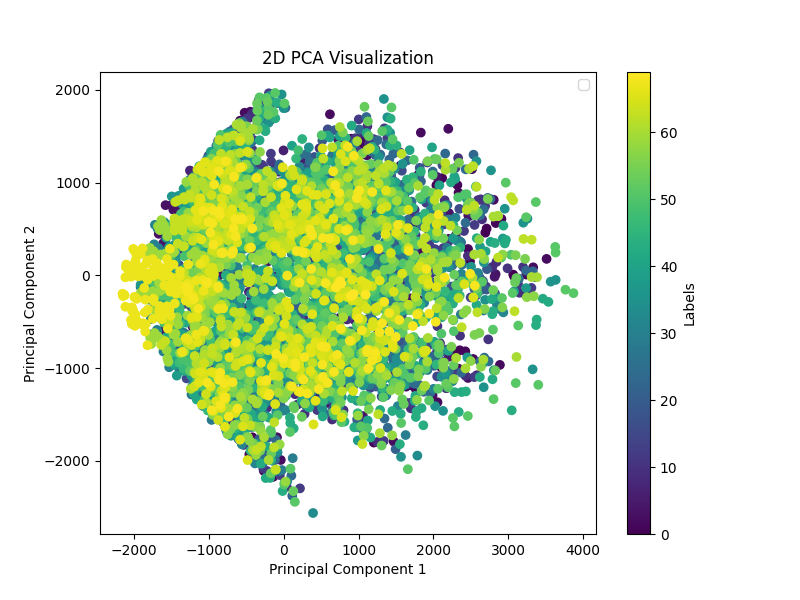
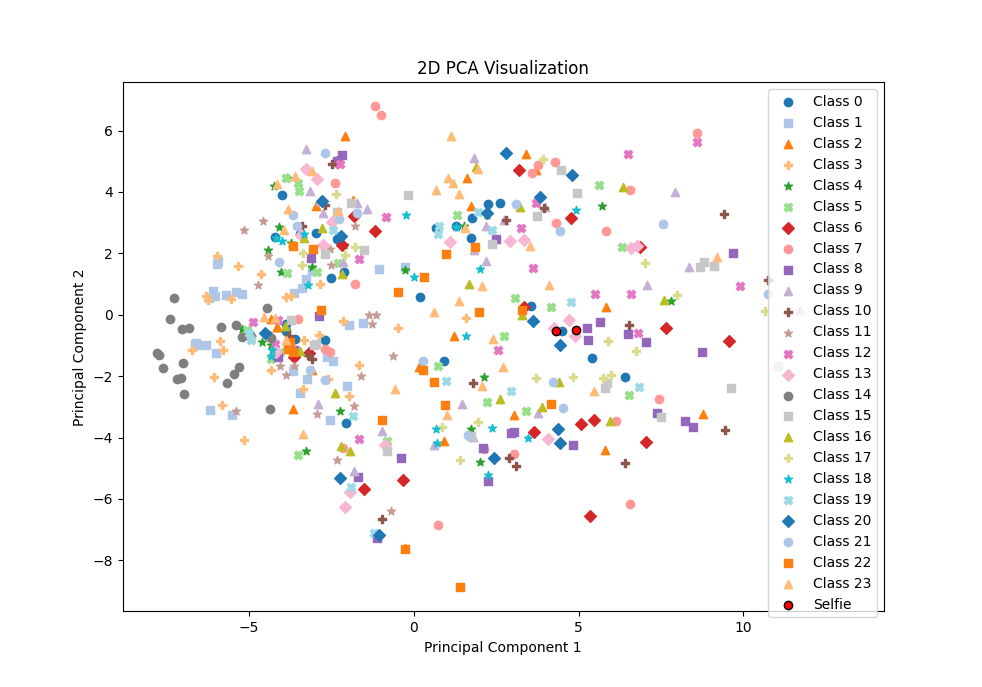
Enhance PCA.py

diff --git a/CA2/LDA.py b/CA2/LDA.py
@@ -1,78 +1,120 @@
 import numpy as np
 import matplotlib.pyplot as plt
-from dataset import load_data  # Ensure dataset.py is in the same directory
 from sklearn.discriminant_analysis import LinearDiscriminantAnalysis as LDA
-
-# Load dataset
-cmu_data_folder = 'CA2/PIE'  # Replace with your dataset path
-selfie_folder = 'CA2/PIE/Selfie' 
-train_images, train_labels, test_images, test_labels = load_data(cmu_data_folder, selfie_folder)
-
-# Randomly sample 500 images (CMU PIE + Selfies)
-np.random.seed(42)
-sample_indices = np.random.choice(len(train_images), 500, replace=False)
-sample_images = train_images[sample_indices]
-sample_labels = train_labels[sample_indices]
-
-# Apply LDA
-def apply_lda(data, labels, n_components):
-    lda = LDA(n_components=n_components)
-    transformed_data = lda.fit_transform(data, labels)
-    return transformed_data, lda
-
-# 2D Visualization
-def visualize_lda_2d(data, labels, highlighted_idx=None):
-    plt.figure(figsize=(8, 6))
-    scatter = plt.scatter(data[:, 0], data[:, 1], c=labels, cmap='viridis', alpha=0.7)
-    if highlighted_idx is not None:
-        plt.scatter(data[highlighted_idx, 0], data[highlighted_idx, 1], color='red', label='Selfie')
-    plt.xlabel('LD 1')
-    plt.ylabel('LD 2')
-    plt.legend()
-    plt.title("2D LDA Visualization")
-    plt.colorbar(scatter, label="Labels")
-    plt.show()
-
-# 3D Visualization
-def visualize_lda_3d(data, labels, highlighted_idx=None):
-    fig = plt.figure(figsize=(8, 6))
-    ax = fig.add_subplot(111, projection='3d')
-    scatter = ax.scatter(data[:, 0], data[:, 1], data[:, 2], c=labels, cmap='viridis', alpha=0.7)
-    if highlighted_idx is not None:
-        ax.scatter(data[highlighted_idx, 0], data[highlighted_idx, 1], data[highlighted_idx, 2], color='red', label='Selfie')
-    ax.set_xlabel('LD 1')
-    ax.set_ylabel('LD 2')
-    ax.set_zlabel('LD 3')
-    plt.title("3D LDA Visualization")
-    plt.colorbar(scatter, label="Labels")
-    plt.legend()
-    plt.show()
-
-# Highlighted indices for your photos in the sample
-highlighted_indices = [idx for idx, label in enumerate(sample_labels) if label == max(sample_labels)]
-
-# Apply LDA for visualization
-lda_data_2d, _ = apply_lda(sample_images, sample_labels, n_components=2)
-visualize_lda_2d(lda_data_2d, sample_labels, highlighted_indices)
-
-lda_data_3d, _ = apply_lda(sample_images, sample_labels, n_components=3)
-visualize_lda_3d(lda_data_3d, sample_labels, highlighted_indices)
-
-import numpy as np
-from dataset import load_data  # Ensure dataset.py is in the same directory
-from sklearn.discriminant_analysis import LinearDiscriminantAnalysis as LDA
+from sklearn.preprocessing import StandardScaler
+from sklearn.model_selection import train_test_split
 from sklearn.neighbors import KNeighborsClassifier
 from sklearn.metrics import accuracy_score
+import os
+import cv2
 
-train_images, train_labels, test_images, test_labels = load_data(cmu_data_folder, selfie_folder)
+def load_images_from_folder(folder_path, img_size=(32, 32), max_folders=25):
+    images, labels = [], []
+    label = 0
+    subject_folders = sorted(os.listdir(folder_path))[:max_folders]
+    for subject_folder in subject_folders:
+        subject_path = os.path.join(folder_path, subject_folder)
+        if os.path.isdir(subject_path):
+            for img_file in os.listdir(subject_path):
+                img_path = os.path.join(subject_path, img_file)
+                img = cv2.imread(img_path, cv2.IMREAD_GRAYSCALE)
+                if img is not None:
+                    img = cv2.resize(img, img_size)
+                    images.append(img.flatten())
+                    labels.append(label)
+            label += 1
+    return np.array(images), np.array(labels)
 
-# Apply LDA
+def prepare_selfie_images(selfie_folder, img_size=(32, 32)):
+    selfie_images = []
+    for img_file in os.listdir(selfie_folder):
+        img_path = os.path.join(selfie_folder, img_file)
+        img = cv2.imread(img_path, cv2.IMREAD_GRAYSCALE)
+        if img is not None:
+            img = cv2.resize(img, img_size)
+            selfie_images.append(img.flatten())
+    return np.array(selfie_images)
+
+def load_data(cmu_data_folder, selfie_folder, max_folders=25, random_seed=42):
+    images, labels = load_images_from_folder(cmu_data_folder, max_folders=max_folders)
+    selfie_images = prepare_selfie_images(selfie_folder)
+
+    train_images, train_labels, test_images, test_labels = [], [], [], []
+    unique_labels = np.unique(labels)
+
+    for label in unique_labels:
+        label_indices = np.where(labels == label)[0]
+        label_images = images[label_indices]
+        label_train, label_test = train_test_split(label_images, test_size=0.3, random_state=random_seed)
+        train_images.extend(label_train)
+        test_images.extend(label_test)
+        train_labels.extend([label] * len(label_train))
+        test_labels.extend([label] * len(label_test))
+
+    train_images, train_labels = np.array(train_images), np.array(train_labels)
+    test_images, test_labels = np.array(test_images), np.array(test_labels)
+
+    selfie_train, selfie_test = train_test_split(selfie_images, test_size=0.3, random_state=random_seed)
+    selfie_train_labels = np.full(len(selfie_train), label + 1)
+    selfie_test_labels = np.full(len(selfie_test), label + 1)
+
+    train_images = np.vstack((train_images, selfie_train))
+    train_labels = np.concatenate((train_labels, selfie_train_labels))
+    test_images = np.vstack((test_images, selfie_test))
+    test_labels = np.concatenate((test_labels, selfie_test_labels))
+
+    train_images = train_images / 255.0
+    test_images = test_images / 255.0
+
+    return train_images, train_labels, test_images, test_labels
+
 def apply_lda(data, labels, n_components):
     lda = LDA(n_components=n_components)
     transformed_data = lda.fit_transform(data, labels)
     return transformed_data, lda
 
-# Nearest Neighbor Classifier
+def visualize_lda_2d(data, labels, highlighted_idx=None):
+    plt.figure(figsize=(8, 6))
+    unique_labels = np.unique(labels)
+    markers = ['o', 's', '^', 'P', '*', 'X', 'D']
+    colors = plt.cm.tab20.colors
+
+    for i, unique_label in enumerate(unique_labels):
+        idx = labels == unique_label
+        if unique_label == max(labels):
+            plt.scatter(data[idx, 0], data[idx, 1], color='red', marker='o', label='Selfie', edgecolor='k')
+        else:
+            marker = markers[i % len(markers)]
+            plt.scatter(data[idx, 0], data[idx, 1], color=colors[i % len(colors)], marker=marker, label=f"Class {unique_label}")
+
+    plt.xlabel("LD 1")
+    plt.ylabel("LD 2")
+    plt.legend()
+    plt.title("2D LDA Visualization")
+    plt.show()
+
+def visualize_lda_3d(data, labels, highlighted_idx=None):
+    fig = plt.figure(figsize=(8, 6))
+    ax = fig.add_subplot(111, projection="3d")
+    unique_labels = np.unique(labels)
+    markers = ['o', 's', '^', 'P', '*', 'X', 'D']
+    colors = plt.cm.tab20.colors
+
+    for i, unique_label in enumerate(unique_labels):
+        idx = labels == unique_label
+        if unique_label == max(labels):
+            ax.scatter(data[idx, 0], data[idx, 1], data[idx, 2], color='red', marker='o', label='Selfie', edgecolor='k')
+        else:
+            marker = markers[i % len(markers)]
+            ax.scatter(data[idx, 0], data[idx, 1], data[idx, 2], color=colors[i % len(colors)], marker=marker, label=f"Class {unique_label}")
+
+    ax.set_xlabel("LD 1")
+    ax.set_ylabel("LD 2")
+    ax.set_zlabel("LD 3")
+    plt.legend()
+    plt.title("3D LDA Visualization")
+    plt.show()
+
 def nearest_neighbor_classifier(train_data, train_labels, test_data, test_labels):
     knn = KNeighborsClassifier(n_neighbors=1)
     knn.fit(train_data, train_labels)
@@ -80,37 +122,53 @@ def nearest_neighbor_classifier(train_data, train_labels, test_data, test_labels
     accuracy = accuracy_score(test_labels, predictions)
     return accuracy, predictions
 
-# Function to run LDA classification
 def lda_classification(train_images, train_labels, test_images, test_labels, dimensions):
     results = {}
     for n_components in dimensions:
-        # Apply LDA to train and test sets
         lda_data_train, lda = apply_lda(train_images, train_labels, n_components)
         lda_data_test = lda.transform(test_images)
-        
-        # Perform classification
+
         accuracy, predictions = nearest_neighbor_classifier(lda_data_train, train_labels, lda_data_test, test_labels)
-        
-        # Separate accuracy for CMU PIE and selfie test images
+
         cmu_pie_indices = [i for i, label in enumerate(test_labels) if label != max(train_labels)]
         selfie_indices = [i for i, label in enumerate(test_labels) if label == max(train_labels)]
-        
+
         cmu_pie_accuracy = accuracy_score(test_labels[cmu_pie_indices], predictions[cmu_pie_indices])
         selfie_accuracy = accuracy_score(test_labels[selfie_indices], predictions[selfie_indices])
-        
+
         results[n_components] = {"overall": accuracy, "cmu_pie": cmu_pie_accuracy, "selfie": selfie_accuracy}
-    
+
     return results
 
-# Define LDA dimensions
-lda_dimensions = [2, 3, 9]
+def main():
+    seed = 42
+    cmu_data_folder = "CA2/PIE"
+    selfie_folder = "CA2/PIE/Selfie"
+    train_images, train_labels, test_images, test_labels = load_data(cmu_data_folder, selfie_folder, random_seed=seed)
 
-# Run LDA classification and print results
-results = lda_classification(train_images, train_labels, test_images, test_labels, lda_dimensions)
-for n_components, accuracy_dict in results.items():
-    print(f"LDA Dimensionality {n_components}:")
-    print(f"  Overall Accuracy = {accuracy_dict['overall']:.2f}")
-    print(f"  CMU PIE Accuracy = {accuracy_dict['cmu_pie']:.2f}")
-    print(f"  Selfie Accuracy = {accuracy_dict['selfie']:.2f}")
+    scaler = StandardScaler()
+    train_images = scaler.fit_transform(train_images)
+    test_images = scaler.transform(test_images)
 
+    lda_dimensions = [2, 3, 9]
+    results = lda_classification(train_images, train_labels, test_images, test_labels, lda_dimensions)
+    for n_components, accuracy_dict in results.items():
+        print(f"LDA Dimensionality {n_components}:")
+        print(f"  Overall Accuracy = {accuracy_dict['overall']:.4f}")
+        print(f"  CMU PIE Accuracy = {accuracy_dict['cmu_pie']:.4f}")
+        print(f"  Selfie Accuracy = {accuracy_dict['selfie']:.4f}")
 
+    sample_indices = np.random.choice(len(train_images), 500, replace=False)
+    sample_images = train_images[sample_indices]
+    sample_labels = train_labels[sample_indices]
+
+    highlighted_indices = [idx for idx, label in enumerate(sample_labels) if label == max(sample_labels)]
+
+    lda_data_2d, _ = apply_lda(sample_images, sample_labels, n_components=2)
+    visualize_lda_2d(lda_data_2d, sample_labels, highlighted_indices)
+
+    lda_data_3d, _ = apply_lda(sample_images, sample_labels, n_components=3)
+    visualize_lda_3d(lda_data_3d, sample_labels, highlighted_indices)
+
+if __name__ == "__main__":
+    main()

diff --git a/CA2/PCA.py b/CA2/PCA.py
@@ -8,10 +8,14 @@ from sklearn.neighbors import KNeighborsClassifier
 from sklearn.metrics import accuracy_score
 
 # Load and preprocess dataset
-def load_images_from_folder(folder_path, img_size=(32, 32)):
+def load_images_from_folder(folder_path, img_size=(32, 32), max_folders=25):
+    """
+    Loads images from the first 'max_folders' folders in the specified directory.
+    """
     images, labels = [], []
     label = 0
-    for subject_folder in os.listdir(folder_path):
+    subject_folders = sorted(os.listdir(folder_path))[:max_folders]  # Take only the first 'max_folders'
+    for subject_folder in subject_folders:
         subject_path = os.path.join(folder_path, subject_folder)
         if os.path.isdir(subject_path):
             for img_file in os.listdir(subject_path):
@@ -25,6 +29,9 @@ def load_images_from_folder(folder_path, img_size=(32, 32)):
     return np.array(images), np.array(labels)
 
 def prepare_selfie_images(selfie_folder, img_size=(32, 32)):
+    """
+    Loads all images from the specified selfie folder.
+    """
     selfie_images = []
     for img_file in os.listdir(selfie_folder):
         img_path = os.path.join(selfie_folder, img_file)
@@ -34,8 +41,12 @@ def prepare_selfie_images(selfie_folder, img_size=(32, 32)):
             selfie_images.append(img.flatten())
     return np.array(selfie_images)
 
-def load_data(cmu_data_folder, selfie_folder, random_seed=42):
-    images, labels = load_images_from_folder(cmu_data_folder)
+def load_data(cmu_data_folder, selfie_folder, max_folders=25, random_seed=42):
+    """
+    Loads data from the CMU PIE dataset and selfie images.
+    Only the first 'max_folders' folders from CMU PIE are loaded.
+    """
+    images, labels = load_images_from_folder(cmu_data_folder, max_folders=max_folders)
     selfie_images = prepare_selfie_images(selfie_folder)
 
     train_images, train_labels, test_images, test_labels = [], [], [], []
@@ -81,17 +92,23 @@ def apply_pca(data, n_components, random_seed=42):
     return transformed_data, pca
 
 def visualize_pca_2d(data, labels, highlighted_idx=None):
+    """
+    Visualizes 2D PCA data with different colors and shapes for each class.
+    Highlights selfie images in red dots.
+    """
     plt.figure(figsize=(8, 6))
-    for unique_label in np.unique(labels):
+    unique_labels = np.unique(labels)
+    markers = ['o', 's', '^', 'P', '*', 'X', 'D']  # Marker styles for different classes
+    colors = plt.cm.tab20.colors  # Use a color palette
+
+    for i, unique_label in enumerate(unique_labels):
         idx = labels == unique_label
-        plt.scatter(data[idx, 0], data[idx, 1], label=f"Class {unique_label}")
-    if highlighted_idx is not None:
-        plt.scatter(
-            data[highlighted_idx, 0],
-            data[highlighted_idx, 1],
-            color="red",
-            label="Selfie",
-        )
+        if unique_label == max(labels):  # Selfie class (last label)
+            plt.scatter(data[idx, 0], data[idx, 1], color='red', marker='o', label='Selfie', edgecolor='k')
+        else:
+            marker = markers[i % len(markers)]  # Cycle through marker styles
+            plt.scatter(data[idx, 0], data[idx, 1], color=colors[i % len(colors)], marker=marker, label=f"Class {unique_label}")
+
     plt.xlabel("Principal Component 1")
     plt.ylabel("Principal Component 2")
     plt.legend()
@@ -99,19 +116,27 @@ def visualize_pca_2d(data, labels, highlighted_idx=None):
     plt.show()
 
 def visualize_pca_3d(data, labels, highlighted_idx=None):
+    """
+    Visualizes 3D PCA data with different colors and shapes for each class.
+    Highlights selfie images in red dots.
+    """
     fig = plt.figure(figsize=(8, 6))
     ax = fig.add_subplot(111, projection="3d")
-    for unique_label in np.unique(labels):
+    unique_labels = np.unique(labels)
+    markers = ['o', 's', '^', 'P', '*', 'X', 'D']  # Marker styles for different classes
+    colors = plt.cm.tab20.colors  # Use a color palette
+
+    for i, unique_label in enumerate(unique_labels):
         idx = labels == unique_label
-        ax.scatter(data[idx, 0], data[idx, 1], data[idx, 2], label=f"Class {unique_label}")
-    if highlighted_idx is not None:
-        ax.scatter(
-            data[highlighted_idx, 0],
-            data[highlighted_idx, 1],
-            data[highlighted_idx, 2],
-            color="red",
-            label="Selfie",
-        )
+        if unique_label == max(labels):  # Selfie class (last label)
+            ax.scatter(data[idx, 0], data[idx, 1], data[idx, 2], color='red', marker='o', label='Selfie', edgecolor='k')
+        else:
+            marker = markers[i % len(markers)]  # Cycle through marker styles
+            ax.scatter(
+                data[idx, 0], data[idx, 1], data[idx, 2],
+                color=colors[i % len(colors)], marker=marker, label=f"Class {unique_label}"
+            )
+
     ax.set_xlabel("Principal Component 1")
     ax.set_ylabel("Principal Component 2")
     ax.set_zlabel("Principal Component 3")
@@ -176,9 +201,9 @@ if __name__ == "__main__":
     )
     for n_components, accuracy_dict in results.items():
         print(f"PCA Dimensionality {n_components}:")
-        print(f"  Overall Accuracy = {accuracy_dict['overall']:.2f}")
-        print(f"  CMU PIE Accuracy = {accuracy_dict['cmu_pie']:.2f}")
-        print(f"  Selfie Accuracy = {accuracy_dict['selfie']:.2f}")
+        print(f"  Overall Accuracy = {accuracy_dict['overall']:.4f}")
+        print(f"  CMU PIE Accuracy = {accuracy_dict['cmu_pie']:.4f}")
+        print(f"  Selfie Accuracy = {accuracy_dict['selfie']:.4f}")
 
     # Visualize PCA
     sample_indices = np.random.choice(len(train_images), 500, replace=False)
